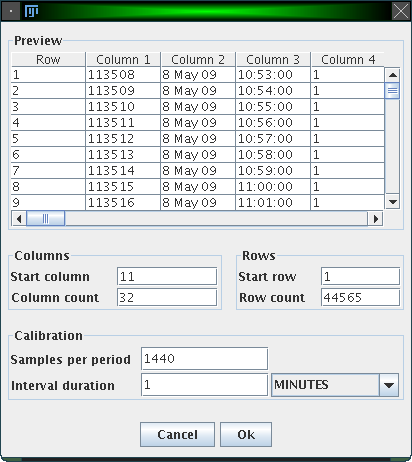
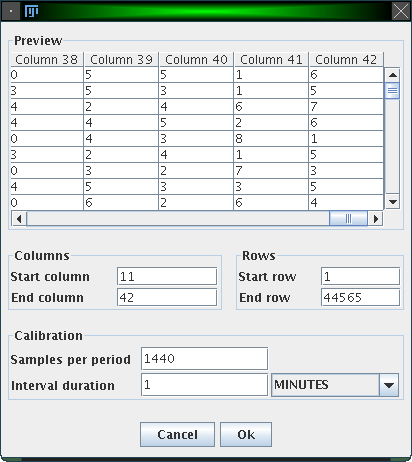
Update the website and figures with the new changes.

diff --git a/www/index.html b/www/index.html
@@ -47,9 +47,9 @@ If you are using ImageJ, you need to download <a href="versions/current/Actogram
 <p align=center><img src="OpenDialog.png"/></p>
 <ul>
 <li><b>Columns:</b> <br>
-Enter here the first column and the number of columns s which should be loaded. Each column is loaded as a separate actogram.<br><br>
+Enter here the number of the first and the last column that should be loaded. Each column is loaded as a separate actogram.<br><br>
 <li><b>Rows:</b> <br>
-Enter here the first row and the number of rows which should be loaded.<br><br>
+Enter here the number of the first and the last row that should be loaded.<br><br>
 <li><b>Samples per period:</b> <br>
 Specify the number of sample measurements per period.<br><br>
 <li><b>Interval duration:</b> <br>
@@ -173,13 +173,15 @@ Choose here which method to use, either "Fourier", "Chi-Square" or "Lomb-Scargle
 Specify here the interval in which you assume the freerunning period. Sensible default values are proposed.<br><br>
 <li><b>Number of peaks</b><br>
 Enter here the number of peaks which will be highlighted in the result (see below).<br><br>
-<li><b>Downsampling factor</b><br>
-By default, periodograms are calculated on the original actograms (and not the displayed ones, which are downsampled depending on the zoom level). You can specify a downsampling factor here, to make the resulting periodogram smoother.<br><br>
+<li><b>Smoothing gaussian standard deviation</b><br>
+By default, periodograms are calculated on the original actograms (and not the displayed ones, which are downsampled depending on the zoom level). Often the resulting periodograms, particularly when using the Chi-Square method, look noisy. To obtain smoother results, you can specify a non-zero standard deviation for gaussian smoothing here.<br><br>
+<li><b>p level</b><br>
+In all methods except the Fourier one a p level can be chosen. Only peaks above the p-level line can be assumed to be significant.</br><br>
 </ul>
 
 <p>Using the actogram, the interval and the parameters as shown above, the following periodogram is calculated:</p>
 <p align=center><img src="PeriodogramResult.png"/></p>
-<p>Three peaks are highlighted, and it is easy to confirm that the desired peak is the one at 1625.</p>
+<p>Three peaks are highlighted, and it is easy to confirm that the desired peak is the one at 1623.</p>
 <p>The p value level for the actogram is displayed as a red line.</p>
 <p>Both periodogram values and p values can be shown as a list (by clicking on 'List'), and saved as an Excel sheet for further analyzis with third-party software.</p>
 <p align=right><a href=#top>&uarr top</a></p>
